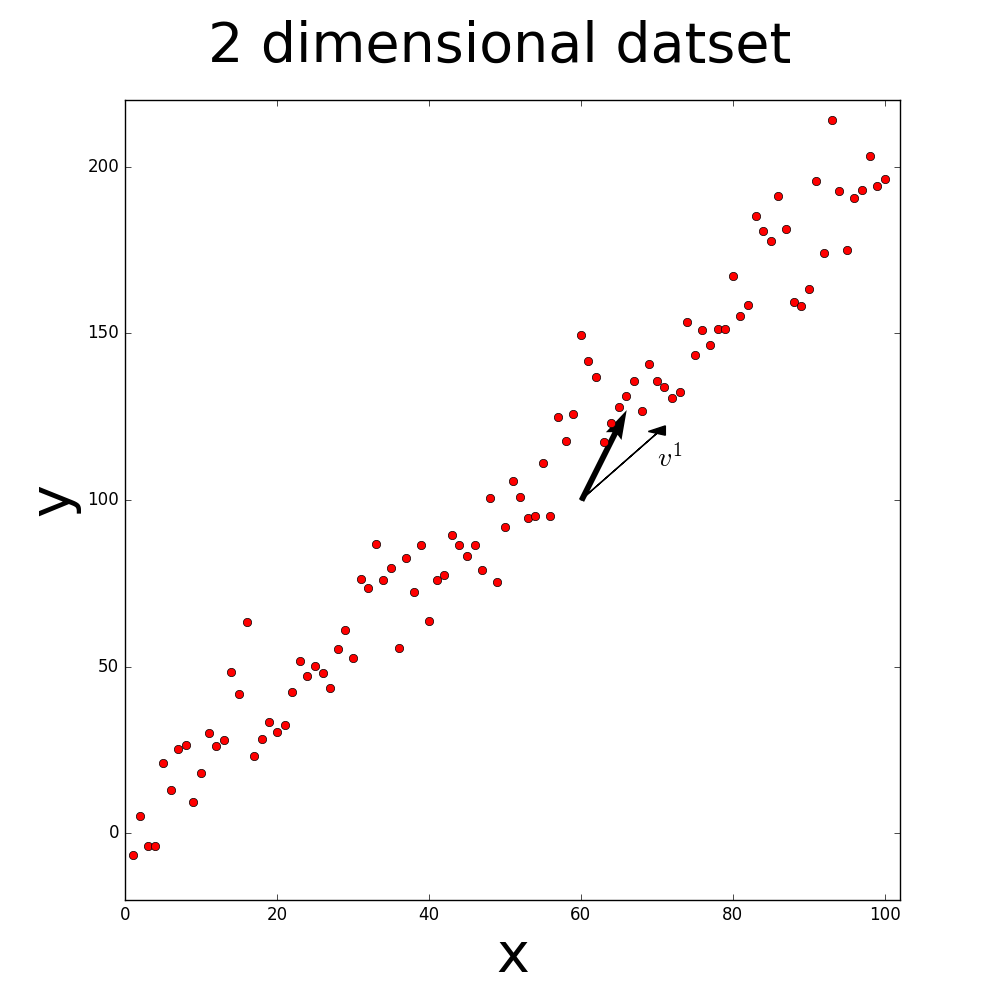
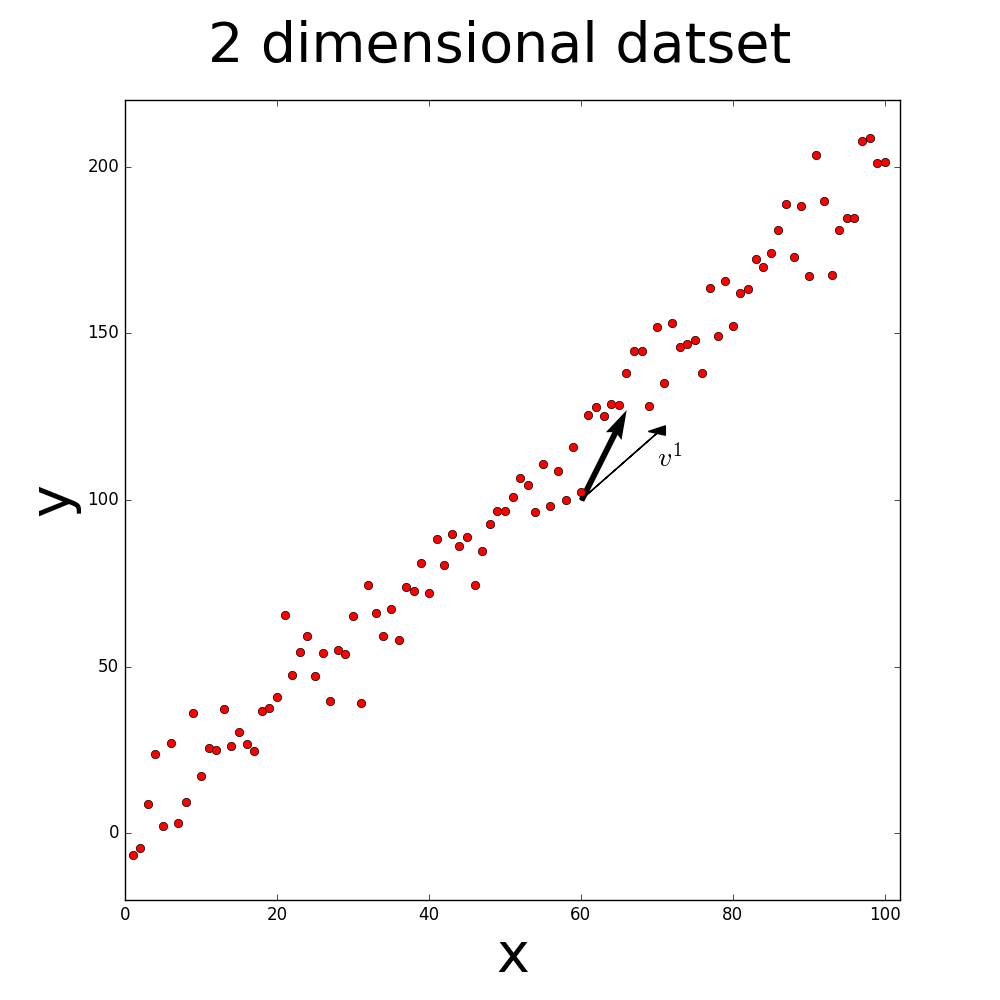
python

diff --git a/机器学习web应用/chapter1/PCA.py b/机器学习web应用/chapter1/PCA.py
@@ -1,4 +1,5 @@
 import numpy as np
+from sklearn.decomposition import PCA
 from matplotlib import pyplot as plt
 
 
@@ -23,4 +24,26 @@ ax.set_xlabel('x',fontsize=40)
 ax.set_ylabel('y',fontsize=40)
 fig.suptitle('2 dimensional datset',fontsize=40)
 fig.savefig('pca_data.png')
-plt.show()
+# plt.show()
+mean_x=np.mean(x)
+mean_y=np.mean(y)
+u_x=(x-mean_x)/np.std(x)
+u_y=(y-mean_y)/np.std(y)
+sigma=np.cov([u_x,u_y])
+eig_vals,eig_vecs=np.linalg.eig(sigma)
+print(eig_vecs)
+eig_pairs=[(np.abs(eig_vals[i]),eig_vecs[:,i]) for i in range(len(eig_vecs))]
+print(eig_pairs)
+eig_pairs.sort()
+eig_pairs.reverse()
+v1=eig_pairs[0][1]
+print(v1)
+x_v1=v1[0]*np.std(x)+mean_x
+y_v1=v1[1]*np.std(y)+mean_y
+print((y_v1-1)/(x_v1-1))
+x=np.array([u_x,u_y])
+x=x.T
+pca=PCA(n_components=1)
+pca.fit(x)
+v1_sklearn=pca.components_[0]
+print(v1_sklearn)

diff --git a/机器学习web应用/chapter1/regression.py b/机器学习web应用/chapter1/regression.py
@@ -1,0 +1,22 @@
+import sklearn
+path = "F:/anaconda/Anaconda/Lib/site-packages/sklearn/datasets/data/boston_house_prices.csv"
+import pandas as pd
+import numpy as np
+from sklearn.linear_model import LinearRegression
+from sklearn import cross_validation
+from sklearn.metrics import mean_squared_error
+df = pd.read_csv(path,header=None)
+x=df[df.columns[:-1]][2:].values
+y=df[df.columns[-1]][2:].values
+print(y)
+y=list(map(float,y))
+print(df)
+print(x)
+print(y)
+cv=10
+print("line regression")
+lin=LinearRegression()
+scores = cross_validation.cross_val_score(lin,x,y,cv=cv)
+print(scores.std()*2)
+predicted = cross_validation.cross_val_predict(lin,x,y,cv=cv)
+print(mean_squared_error(y,predicted))
